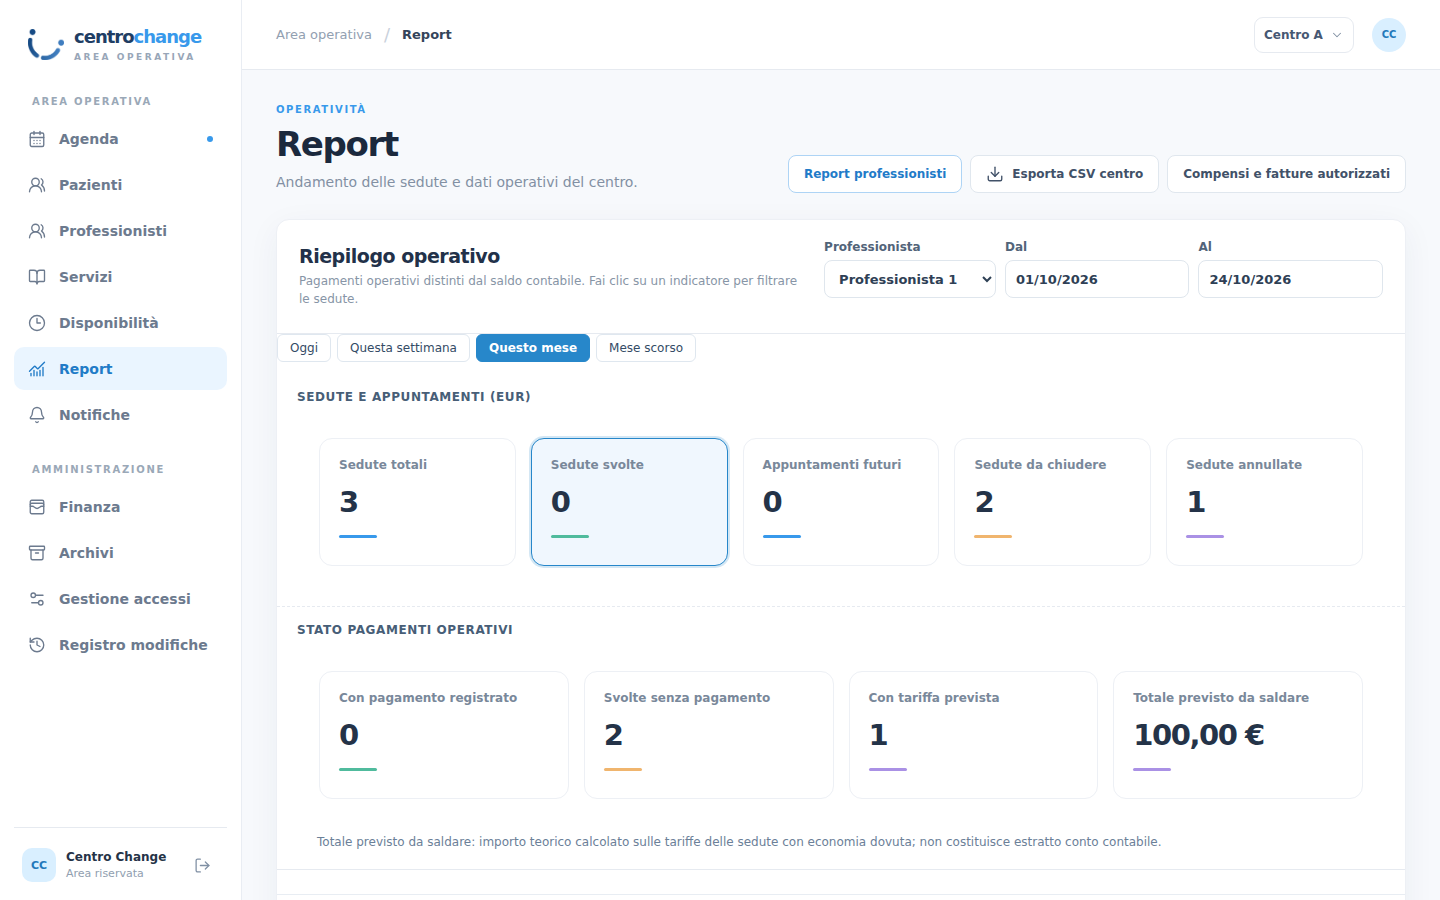
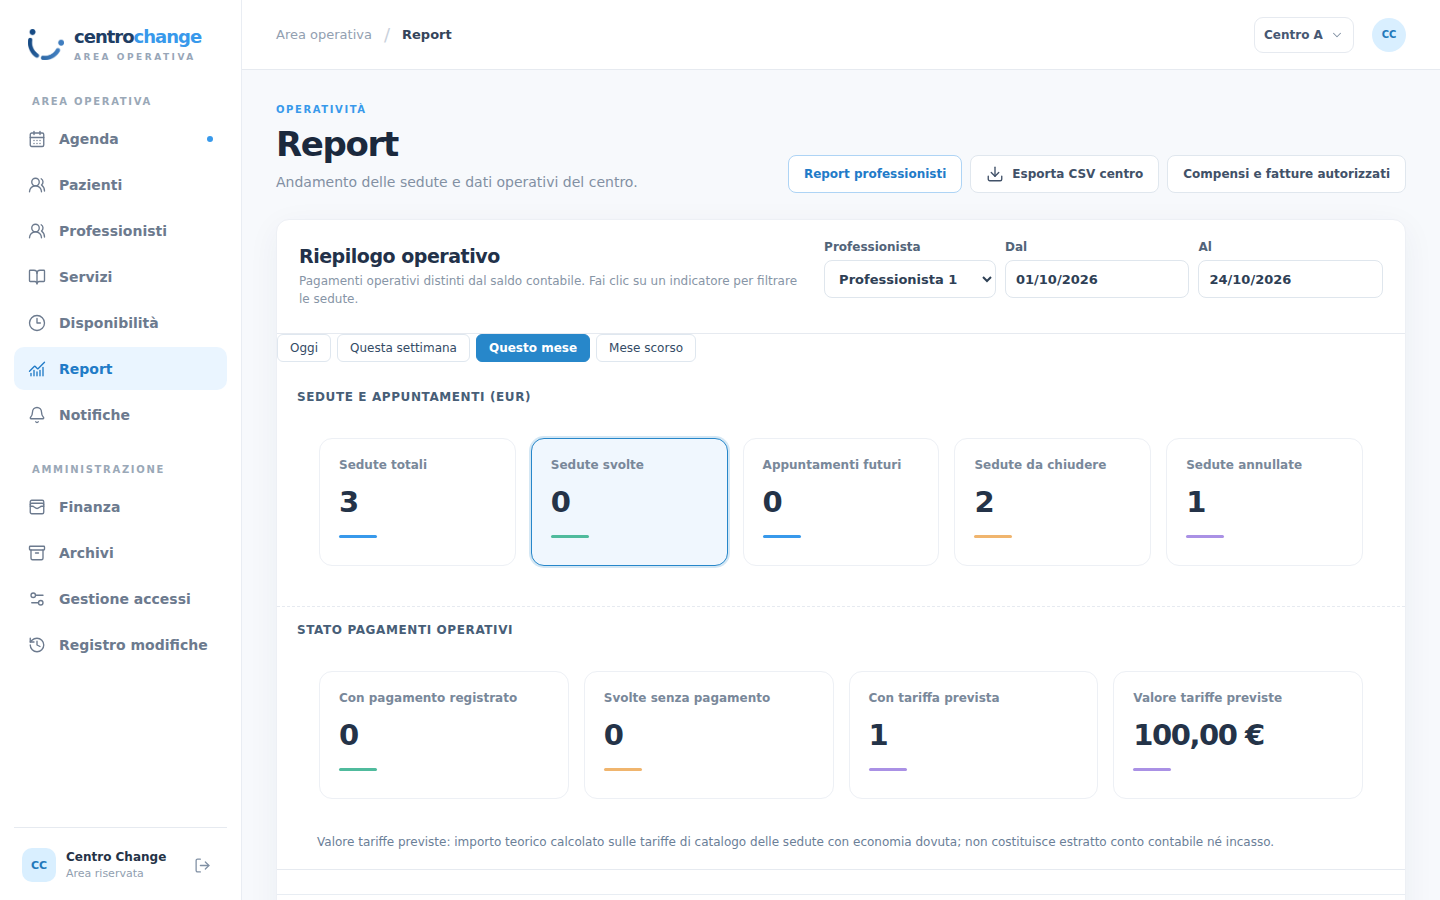
docs(audit-05): refresh live DEV screenshots and document 2f305b4 verification and deployment

Changed region(s): [[0.2188, 0.9333, 0.875, 0.9644], [0.7812, 0.7467, 0.9062, 0.7778], [0.4062, 0.8089, 0.4375, 0.84]]

diff --git a/docs/qa/AUDIT-05-PROFESSIONALS.md b/docs/qa/AUDIT-05-PROFESSIONALS.md
@@ -145,3 +145,38 @@ In risposta al riscontro Owner UAT (`UAT-05-REPORT-01 = FAIL / CORE_FUNCTIONAL_G
 
 Stato finale del candidato: **DEV_INSTALLED_READY_FOR_OWNER_UAT**. PR #172 in stato DRAFT senza merge.
 
+## Remediation Finale Checkpoint CI & Deployment Live DEV — Commit 2f305b4 (24/10/2026)
+
+Esecuzione completata in seguito alla revisione tecnica indipendente di ChatGPT ([commento 6386756729](https://github.com/2008hitch-afk/centrochange_core/issues/171#issuecomment-6386756729)) e autorizzazione checkpoint CI run [40113565235](https://github.com/2008hitch-afk/centrochange_core/actions/runs/40113565235) (SUCCESS su exact SHA `2f305b476e1cbdd154380c76ccaf400de745c588`):
+
+### 1. Incoerenze risolte
+1. **Classificazione rigorosa «Svolte senza pagamento»**:
+   - `is_unpaid` richiede strettamente `is_performed == True` oltre a `not is_paid` e stato economico dovuto.
+   - Le sedute non ancora chiuse con orario terminato restano classificate esclusivamente come `to_close` («Sedute da chiudere») e non confluiscono mai in `operational_unpaid`.
+   - L'endpoint `sessions` applica i filtri per `cancelled`, `performed`, `operational_paid`, `operational_unpaid`, `due` e `currency` direttamente a livello query DB.
+2. **Metriche ribbon Agenda coerenti con filtro professionisti e stati temporali**:
+   - `AgendaView` calcola il totale sedute, `completed` (escludendo le annullate) e `toClose` (escludendo le future e le annullate) esclusivamente sulle righe filtrate dai professionisti selezionati (`displayedRows`).
+   - L'endpoint `operations/workspace.py:agenda` supporta il parametro `practitioner`, esegue il filtro DB e applica il clamp obbligatorio per il ruolo `CC Professional`, con page length esteso a 501.
+3. **Fail-closed sui Report**:
+   - Nel catch di `reporting.summary`, invocato `setData(null)` per fail-closed totale senza residui visivi.
+4. **Terminologia italiana e note esplicative**:
+   - Aggiornata la dicitura in `Valore tariffe previste: importo teorico calcolato sulle tariffe di catalogo delle sedute con economia dovuta; non costituisce estratto conto contabile né incasso.`
+5. **Type definitions**:
+   - Esteso `Appointment` con `cc_classified_future?: boolean; cc_classified_to_close?: boolean`.
+
+### 2. Immagine candidata e gate DEV
+- Immagine single-stack completa: `cc171-professionals:2f305b4` (`sha256:c532337a388e5609d954468707350b06e8d465c391e645fb9008e65498beb9a6`).
+- Parità single-stack verificata sia localmente sia dentro l'immagine con `verify_full_single_stack.py`: PASS.
+- Sostituzione dei 6 container applicativi del solo `centrochange-dev` (backend, frontend, websocket, queue-short, queue-long, scheduler).
+- MariaDB (`df86246955d5`) e i due Redis (`11a3124321c0`, `7264d05f5e94`) intatti, nessuna migrazione o alterazione dei dati.
+- Cache Redis invalidata con `bench --site centrochange.local clear-cache`.
[1 lines of base64/hex data omitted]
+
+### 3. Collaudo live multi-ruolo post-installazione
+- `dev_uat05_smoke.cjs`: PASS (Manager report/drilldown/agenda popover/mobile; Professionista agenda personale/nessun admin/report personale/IDOR negato; Segreteria report operativo; Guest negato).
+- `dev_readonly_smoke.cjs`: 8/8 ruoli PASS con controlli negativi su centri inattivi e IDOR.
+- Evidenze screenshot in `docs/evidence/issue-171/` aggiornate dalla DEV reale in esecuzione.
+- DB fingerprint post-UAT identico: zero mutazioni sui dati di business.
+
+Esito finale: **DEV_INSTALLED_READY_FOR_OWNER_UAT**. PR #172 in stato DRAFT senza merge.
+
